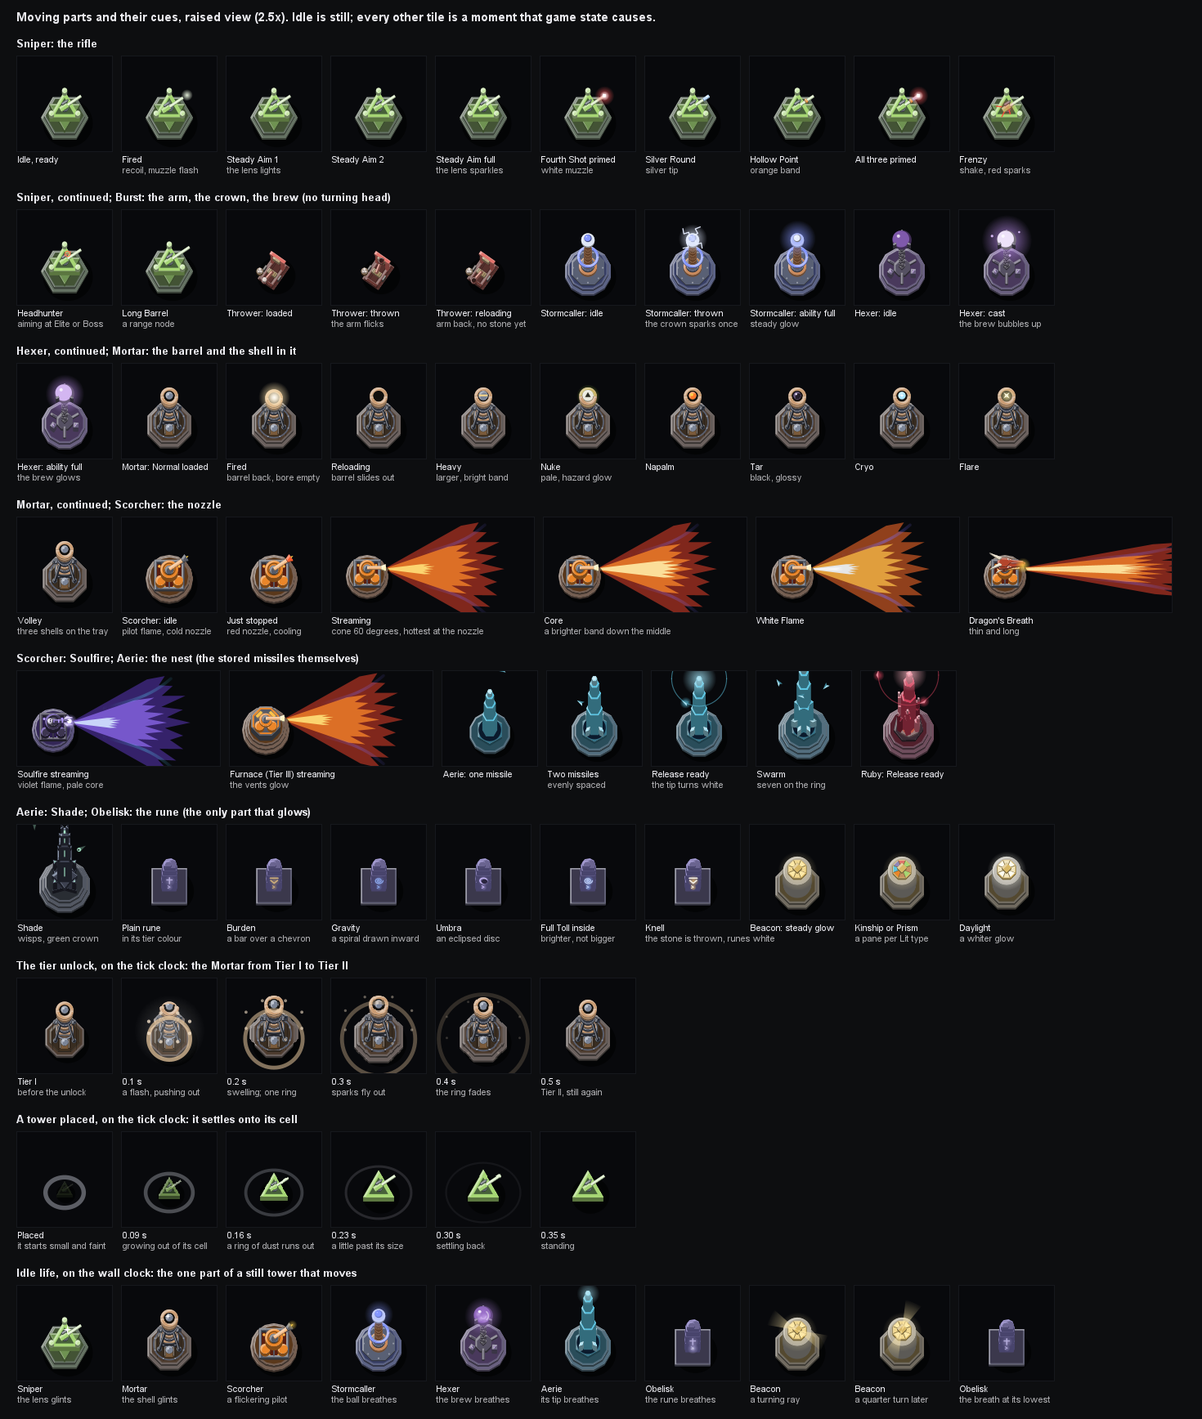
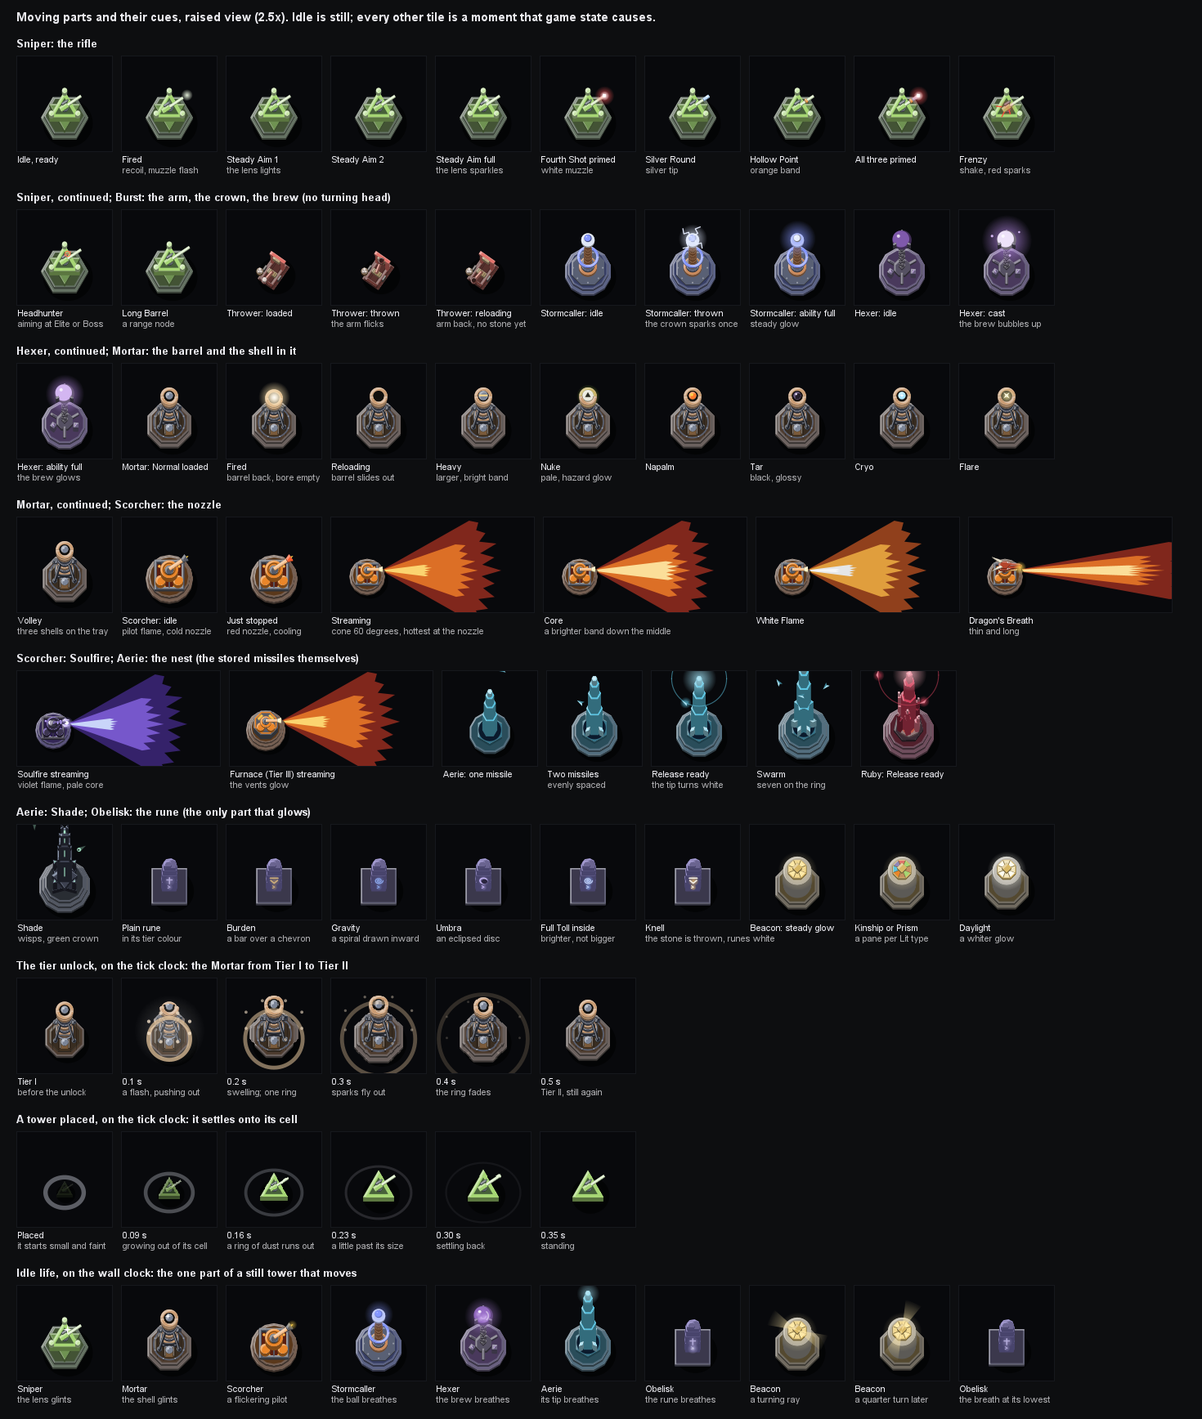
Burn each enemy once in a flame that covers its range
An enemy two cones hold is one silhouette: its hottest cone sets its heat, and
each further cone adds a little, so crossfire warms a rim without reaching the
white and ice-blue only upgrades reach. The rim is one flat line round the body,
wider-ramped and thicker the hotter it burns, over a flat silhouette. The licks
lose their outlines and the cone its side sheen, which overshot the fire. A
cone's solid fire now covers its whole range, its tips licking past it.

A silhouette paints in about 60% of its former time.

diff --git a/src/main/java/td/ui/FlameArt.java b/src/main/java/td/ui/FlameArt.java
@@ -13,11 +13,11 @@ import java.awt.geom.Path2D;
 
 /**
  * The Scorchers' flame. Every stream of the frame is painted in one pass, layer by layer, so where two cones cross their
- * fire merges into one flame instead of stacking its alpha twice. Over the fire, each enemy caught in a cone shows as a
- * body standing in the jet: heat pooling on its front, a dimmer wake behind it, its dark silhouette lit white-hot where
- * the jet strikes and dull red round its flanks, tongues of flame licking round both sides with a blue-violet plasma
- * edge, and embers shed off it. How hot it all looks follows the fuel: a hotter stream and a hotter enemy burn yellower,
- * then white, then blue-white. Nothing is stored between frames.
+ * fire merges into one flame instead of stacking its alpha twice. A cone's solid fire covers its whole reach and its
+ * tips lick past it. Over the fire, each enemy caught in a cone shows as a body standing in the jet: heat pooling on its
+ * front, a dimmer wake behind it, its dark silhouette ringed by a rim of its heat, tongues of flame licking round both
+ * sides and embers shed off it. How hot it all looks follows the fuel: a hotter stream and a hotter enemy burn yellower,
+ * then white, then ice-blue, and a hotter rim is thicker. Nothing is stored between frames.
  */
 final class FlameArt {
 
@@ -25,6 +25,8 @@ final class FlameArt {
     static final double FULL_FUEL = 120;
     /** Heat added inside the Core, on top of the fuel the Core already adds. */
     static final double CORE_HEAT = 0.25;
+    /** Heat each cone past the hottest adds to an enemy caught in several. */
+    static final double CROSSFIRE_HEAT = 0.1;
 
     /** The three layers' alpha; the outer and middle merge across cones, the core stays each stream's. */
     private static final float OUTER_ALPHA = 0.55f;
@@ -35,7 +37,7 @@ final class FlameArt {
     private static final int CORE_TIPS = 5;
     private static final int WHITE_TIPS = 3;
     private static final int TONGUE_SEEDS = 7;
-    /** A silhouette: how dark it lies over the fire, and its rim's width in cells. */
+    /** A silhouette: how dark it lies over the fire, and its coolest rim's width in cells. */
     private static final Color SILHOUETTE = new Color(0x1a0c06);
     private static final float SILHOUETTE_ALPHA = 0.68f;
     private static final double RIM_CELLS = 0.030;
@@ -46,13 +48,8 @@ final class FlameArt {
     private static final double WAKE_LENGTH = 3.0;
     private static final float WAKE_ALPHA = 0.42f;
     private static final int LICK_POINTS = 14;
-    private static final int PLASMA_POINTS = 12;
-    private static final Color PLASMA = new Color(0x7a6cff);
-    private static final Color PLASMA_SOUL = new Color(0x58d8ff);
     private static final Color FLAME = new Color(0xff8a2a);
     private static final Color FLAME_SOUL = new Color(0xb49cff);
-    private static final Color RIM_COOL = new Color(0xc0301a);
-    private static final Color RIM_DULL = new Color(0xd04020);
 
     private FlameArt() {
     }
@@ -86,10 +83,15 @@ final class FlameArt {
                 : ramp(heat, new Color(0xffe27a), new Color(0xfff2b8), new Color(0xfffaf0), new Color(0xe6f0ff));
     }
 
-    /** The rim on a silhouette's hot edge: yellow, white-hot, then blue-white. */
+    /** How far {@code heat} is toward the hottest a rim gets: a full stream in the Core. */
+    private static double rimShare(double heat) {
+        return Math.clamp(heat / (1 + CORE_HEAT), 0, 1);
+    }
+
+    /** The rim round a silhouette: orange-red, yellow, white-hot, then ice-blue. */
     private static Color rim(double heat, boolean soul) {
-        return soul ? ramp(heat, new Color(0xe0d0ff), Color.WHITE)
-                : ramp(heat / 1.25, new Color(0xffd84a), new Color(0xfff0a0), Color.WHITE, new Color(0xd8e8ff));
+        return soul ? ramp(rimShare(heat), new Color(0xa47cff), new Color(0xe0d0ff), Color.WHITE, new Color(0xa8f0ff))
+                : ramp(rimShare(heat), new Color(0xe04a20), new Color(0xffd040), Color.WHITE, new Color(0x9cd0ff));
     }
 
     /** Every stream and every enemy caught in one. */
@@ -121,7 +123,6 @@ final class FlameArt {
             g2.fill(middle);
         }
         for (FlameDraw.Stream s : flame.streams()) {
-            plasma(g2, s, scale);
             boolean core = s.coreHalfWidthRadians() > 0;
             double coreHalf = core ? s.coreHalfWidthRadians() : s.halfWidthRadians() * 0.26;
             double coreHeat = s.heat() + (core ? CORE_HEAT : 0);
@@ -144,7 +145,7 @@ final class FlameArt {
         return t.createTransformedShape(tongue);
     }
 
-    /** A flame along +x, its edge through tips and notches across its width, a little shorter toward its sides. */
+    /** A flame along +x: its notches lie at {@code reach} across its width, its tips past it, shorter toward its sides. */
     private static Shape tongue(double reach, double half, int tips, int seed) {
         Path2D.Double path = new Path2D.Double();
         double root = reach * 0.01;
@@ -153,49 +154,21 @@ final class FlameArt {
         int points = tips * 2;
         for (int i = 0; i <= points; i++) {
             double angle = -half + 2 * half * i / points;
-            double edge = 1 - 0.10 * Math.abs(angle / half);
             double roll = TowerLifeArt.hash(seed, i);
-            double share = i % 2 == 0 ? 0.78 + 0.10 * roll : 0.96 + 0.08 * roll;
-            double r = reach * edge * share;
+            double over = (0.15 + 0.10 * roll) * (1 - 0.5 * Math.abs(angle / half));
+            double share = i % 2 == 0 ? 1.0 + 0.04 * roll : 1.0 + over;
+            double r = reach * share;
             path.lineTo(Math.cos(angle) * r, Math.sin(angle) * r);
         }
         path.closePath();
         return path;
     }
 
-    /** A thin blue-violet sheen curving along each side of the cone from a third of its reach, gone at the tips. */
-    private static void plasma(Graphics2D g2, FlameDraw.Stream s, double scale) {
-        AffineTransform save = g2.getTransform();
-        g2.translate(s.x(), s.y());
-        g2.rotate(s.headingRadians());
-        Color tint = s.soulfire() ? PLASMA_SOUL : PLASMA;
-        g2.setStroke(new BasicStroke((float) (scale * 0.05), BasicStroke.CAP_ROUND, BasicStroke.JOIN_ROUND));
-        g2.setPaint(new GradientPaint(s.reach() * 0.3f, 0f, TowerLifeArt.faded(tint, 0), s.reach() * 0.62f, 0f,
-                TowerLifeArt.faded(tint, 0.30 + 0.15 * s.heat()), true));
-        for (int side = -1; side <= 1; side += 2) {
-            Path2D.Double sheen = new Path2D.Double();
-            double inner = s.halfWidthRadians() * 0.80;
-            for (int i = 0; i <= PLASMA_POINTS; i++) {
-                double u = 0.3 + 0.62 * i / PLASMA_POINTS;
-                double a = side * inner * (1 - 0.15 * Math.sin(Math.PI * (u - 0.3) / 0.62));
-                double r = s.reach() * u;
-                if (i == 0) {
-                    sheen.moveTo(Math.cos(a) * r, Math.sin(a) * r);
-                } else {
-                    sheen.lineTo(Math.cos(a) * r, Math.sin(a) * r);
-                }
-            }
-            g2.draw(sheen);
-        }
-        g2.setTransform(save);
-    }
-
-
     /**
      * An enemy in the fire. The jet piles up against its front: a hot glow pools on the side facing the nozzle. Its
-     * body blocks the fire: a dimmer wake trails behind it downstream. Its dark silhouette is lit along the facing edge,
-     * white-hot where the jet strikes square and cooling to a dull red round its flanks. Tongues of flame split on its
-     * front and lick round both sides, a faint plasma along their outer edge; a few embers shed off its flanks.
+     * body blocks the fire: a dimmer wake trails behind it downstream. Its dark silhouette is ringed by a rim as hot,
+     * and as thick, as the fire in it. Tongues of flame split on its front and lick round both sides; a few embers shed
+     * off its flanks.
      */
     private static void silhouette(Graphics2D g2, FlameDraw.Caught c, double scale, double seconds) {
         double x = c.x();
@@ -209,7 +182,6 @@ final class FlameArt {
         int seed = (int) Math.round(c.x() * 7 + c.y() * 13);
         Color hot = rim(c.heat(), c.soulfire());
         Color flame = c.soulfire() ? FLAME_SOUL : FLAME;
-        Color plasma = c.soulfire() ? PLASMA_SOUL : PLASMA;
         double across = toNozzle + Math.PI / 2;
         double wakeX = x + Math.cos(down) * size * WAKE_LENGTH;
         double wakeY = y + Math.sin(down) * size * WAKE_LENGTH;
@@ -226,7 +198,6 @@ final class FlameArt {
         double frontY = y + Math.sin(toNozzle) * size * 0.9;
         TowerLifeArt.glow(g2, frontX, frontY, size * 1.25, hot, 0.55);
         TowerLifeArt.glow(g2, frontX, frontY, size * 0.6, mix(hot, Color.WHITE, 0.4), 0.55);
-        g2.setStroke(new BasicStroke((float) (scale * 0.008)));
         for (int side = -1; side <= 1; side += 2) {
             for (int k = 0; k < TONGUES; k++) {
                 Shape t = lick(x, y, toNozzle, size, side, k, seconds, seed, 1.0);
@@ -234,25 +205,13 @@ final class FlameArt {
                         TowerLifeArt.faded(mix(flame, hot, 0.65), 0.95), (float) (x + Math.cos(down) * size * 3),
                         (float) (y + Math.sin(down) * size * 3), TowerLifeArt.faded(mix(flame, hot, 0.3), 0)));
                 g2.fill(t);
-                g2.setPaint(new GradientPaint((float) frontX, (float) frontY, TowerLifeArt.faded(plasma, 0.45),
-                        (float) (x + Math.cos(down) * size * 2.5), (float) (y + Math.sin(down) * size * 2.5),
-                        TowerLifeArt.faded(plasma, 0)));
-                g2.draw(t);
             }
         }
-        double backX = x + Math.cos(down) * size;
-        double backY = y + Math.sin(down) * size;
-        g2.setPaint(new GradientPaint((float) frontX, (float) frontY,
-                TowerLifeArt.faded(mix(SILHOUETTE, hot, 0.35), 0.62), (float) x, (float) y,
-                TowerLifeArt.faded(SILHOUETTE, SILHOUETTE_ALPHA)));
+        g2.setColor(TowerLifeArt.faded(SILHOUETTE, SILHOUETTE_ALPHA));
         g2.fill(outline);
-        g2.setStroke(new BasicStroke((float) (RIM_CELLS * scale * 2.4), BasicStroke.CAP_ROUND, BasicStroke.JOIN_ROUND));
-        g2.setPaint(new GradientPaint((float) frontX, (float) frontY, TowerLifeArt.faded(hot, 0.45), (float) backX,
-                (float) backY, TowerLifeArt.faded(RIM_COOL, 0)));
-        g2.draw(outline);
-        g2.setStroke(new BasicStroke((float) (RIM_CELLS * scale * 0.9), BasicStroke.CAP_ROUND, BasicStroke.JOIN_ROUND));
-        g2.setPaint(new GradientPaint((float) frontX, (float) frontY, TowerLifeArt.faded(mix(hot, Color.WHITE, 0.5), 1.0),
-                (float) x, (float) y, TowerLifeArt.faded(RIM_DULL, 0.15)));
+        float rimWidth = (float) (RIM_CELLS * scale * (1 + rimShare(c.heat())));
+        g2.setStroke(new BasicStroke(rimWidth, BasicStroke.CAP_ROUND, BasicStroke.JOIN_ROUND));
+        g2.setColor(TowerLifeArt.faded(hot, 0.85));
         g2.draw(outline);
         for (int side = -1; side <= 1; side += 2) {
             Shape t = lick(x, y, toNozzle, size, side, 0, seconds, seed, 0.45);

diff --git a/src/main/java/td/ui/TowerEffectFrameBuilder.java b/src/main/java/td/ui/TowerEffectFrameBuilder.java
@@ -55,7 +55,9 @@ import td.wave.Vec2;
 
 import java.awt.geom.Point2D;
 import java.util.ArrayList;
+import java.util.LinkedHashMap;
 import java.util.List;
+import java.util.Map;
 import java.util.Optional;
 import java.util.OptionalInt;
 
@@ -149,7 +151,7 @@ public final class TowerEffectFrameBuilder implements TowerVisitor<Void> {
     private final List<TowerEffectDraw> draws = new ArrayList<>();
     private final List<ZoneDraw> wards = new ArrayList<>();
     private final List<FlameDraw.Stream> streams = new ArrayList<>();
-    private final List<FlameDraw.Caught> caught = new ArrayList<>();
+    private final Map<EnemyMob, Burning> burning = new LinkedHashMap<>();
     private final int scale;
     private final int gameTime;
     private final double interpolationAlpha;
@@ -180,7 +182,9 @@ public final class TowerEffectFrameBuilder implements TowerVisitor<Void> {
             this.draws.add(new WardOutlineDraw(ZoneOutlineTracer.trace(this.wards), this.scale));
         }
         if (!this.streams.isEmpty()) {
-            this.draws.add(new FlameDraw(this.streams, this.caught, this.scale, this.tickSeconds()));
+            List<FlameDraw.Caught> caught = this.burning.entrySet().stream()
+                    .map(entry -> this.caught(entry.getKey(), entry.getValue())).toList();
+            this.draws.add(new FlameDraw(this.streams, caught, this.scale, this.tickSeconds()));
         }
         return this.draws;
     }
@@ -677,16 +681,45 @@ public final class TowerEffectFrameBuilder implements TowerVisitor<Void> {
                 (float) tower.halfWidthRadians(), heatOf(tower.fuelPerSecond()), look.coreHalfWidth(), look.soulfire(),
                 flicker));
         for (CinderTower.Caught fed : tower.caught()) {
-            float heat = heatOf(fed.fuelPerSecond()) + (fed.inCore() ? (float) FlameArt.CORE_HEAT : 0f);
-            this.caught.add(fed.enemy().accept(mob -> new FlameDraw.Caught(EnemyFrameBuilder.lookFor(mob.archetype()),
-                    this.lerp(mob.getPrevX(), mob.getX()), this.lerp(mob.getPrevY(), mob.getY()), mob.getBodyScale(),
-                    (float) mob.getFacingRadians(), heat, muzzle.x, muzzle.y, look.soulfire())));
+            this.burning.merge(fed.enemy(), new Burning(new Cone(fed.fuelPerSecond(), muzzle, look.soulfire()),
+                    fed.inCore(), 1), Burning::with);
         }
         for (CinderTower.Flash flash : tower.flashes()) {
             this.draws.add(flashover(look.soulfire(), (float) flash.fromX(), (float) flash.fromY(), (float) flash.toX(),
                     (float) flash.toY(), flicker));
         }
         return null;
+    }
+
+    /** {@code enemy} standing in the flame, as hot as {@code fire} burns it, lit from its hottest cone's nozzle. */
+    private FlameDraw.Caught caught(EnemyMob enemy, Burning fire) {
+        Cone hottest = fire.hottest();
+        return enemy.accept(mob -> new FlameDraw.Caught(EnemyFrameBuilder.lookFor(mob.archetype()),
+                this.lerp(mob.getPrevX(), mob.getX()), this.lerp(mob.getPrevY(), mob.getY()), mob.getBodyScale(),
+                (float) mob.getFacingRadians(), fire.heat(), hottest.nozzle().x, hottest.nozzle().y,
+                hottest.soulfire()));
+    }
+
+    /** One cone's fuel into an enemy, a second, and the nozzle and fire it came from. */
+    private record Cone(float fuelPerSecond, Point2D.Float nozzle, boolean soulfire) {
+    }
+
+    /**
+     * Every cone that fed one enemy this tick: the hottest, whether any held it in its Core, and how many. The hottest
+     * sets the heat, so crossfire warms a rim without stealing the white and ice-blue that only upgrades reach.
+     */
+    private record Burning(Cone hottest, boolean inCore, int cones) {
+
+        Burning with(Burning other) {
+            Cone hotter = other.hottest().fuelPerSecond() > this.hottest().fuelPerSecond() ? other.hottest()
+                    : this.hottest();
+            return new Burning(hotter, this.inCore() || other.inCore(), this.cones() + other.cones());
+        }
+
+        float heat() {
+            return heatOf(this.hottest().fuelPerSecond()) + (float) (FlameArt.CROSSFIRE_HEAT * (this.cones() - 1))
+                    + (this.inCore() ? (float) FlameArt.CORE_HEAT : 0f);
+        }
     }
 
     /** The steam its nozzle lets off as its reload starts. */

diff --git a/src/test/java/td/ui/TowerEffectFrameBuilderTest.java b/src/test/java/td/ui/TowerEffectFrameBuilderTest.java
@@ -671,19 +671,24 @@ class TowerEffectFrameBuilderTest {
     }
 
     @Test
-    void crossingStreamsAreOneFlameOverEveryEnemyTheyFeed() {
+    void crossingStreamsAreOneFlameBurningEachEnemyOnceAShadeHotterThanItsHottestCone() {
         GameWorld context = WorldFixtures.newWorldOnBoard(BoardFixtures.SCALE, 20, 20);
-        CinderTower west = scorcherWith(context);
-        CinderTower north = new CinderTower(context, 4, 2);
-        context.towers().add(north);
-        EnemyMob enemy = walkerBefore(context, west, BoardFixtures.SCALE);
+        CinderTower near = scorcherWith(context);
+        CinderTower behind = new CinderTower(context, 2, 3);
+        context.towers().add(behind);
+        EnemyMob enemy = walkerBefore(context, near, BoardFixtures.SCALE);
 
         FlameDraw flame = flameOf(context, enemy);
 
+        assertThat(near.caught()).extracting(CinderTower.Caught::enemy).containsExactly(enemy);
+        assertThat(behind.caught()).extracting(CinderTower.Caught::enemy).containsExactly(enemy);
+        float hottest = Math.max(near.caught().getFirst().fuelPerSecond(), behind.caught().getFirst().fuelPerSecond());
         assertThat(flame.streams()).hasSize(2);
-        assertThat(flame.caught()).isNotEmpty().allSatisfy(caught -> {
+        assertThat(flame.caught()).singleElement().satisfies(caught -> {
             assertThat(caught.x()).isEqualTo((float) enemy.getX());
             assertThat(caught.bodyScale()).isEqualTo(enemy.getBodyScale());
+            assertThat(caught.heat()).isCloseTo(
+                    TowerEffectFrameBuilder.heatOf(hottest) + (float) FlameArt.CROSSFIRE_HEAT, within(1e-5f));
         });
     }
 

diff --git a/.claude/skills/run-jtd/TowerArtSheets3.java b/.claude/skills/run-jtd/TowerArtSheets3.java
@@ -60,11 +60,11 @@ final class TowerArtSheets3 {
         return TowerArt.State.idle();
     }
 
-    /** A Scorcher with its stream, the nozzle at the tile's left so the cone has room. */
+    /** A Scorcher with its stream, the nozzle at the tile's left and drawn small, so the flame's tips past its range fit. */
     static Art streaming(String id, int tier, TowerArt.State s, double range, double half, String look) {
         return g -> {
             g.translate(-1.0, 0.2);
-            g.scale(0.9, 0.9);
+            g.scale(0.75, 0.75);
             TowerArt.Build b = TowerArt.build(id, tier, s.aim(0).cue("stream"));
             AffineTransform save = g.getTransform();
             double len = (s.has("dragon") ? 0.28 : 0.25) + 0.07;

diff --git a/docs/features/FEATURE-tower-visual-polish.md b/docs/features/FEATURE-tower-visual-polish.md
@@ -185,24 +185,28 @@ at Tier III a low iron rail on posts runs round the back half only.
 
 Every stream of the frame is painted in one pass, so two cones that cross merge into one flame instead of stacking
 their alpha: the outer and middle layers of every stream are joined into one shape each and filled once; each
-stream's core stays its own. Flashovers stay the game's small tongues.
+stream's core stays its own. Flashovers stay the game's small tongues. A cone's solid fire covers its whole range
+and its ragged tips lick past it, shorter toward its sides, so no enemy it burns stands outside the drawn flame.
 
 - **An enemy in the jet** looks as a body standing in a jet of flame does, instead of being hidden:
   - its own outline as a semi-transparent dark silhouette over the fire;
   - heat pooling against its front, a soft hot glow on the side facing the nozzle;
   - a dimmer wake trailing downstream behind it, where its body blocks the fire (`WAKE_*`);
-  - the hot rim: its outline lit white-hot where the jet strikes square, cooling to a dull red round its flanks and
-    fading out at its back, and the silhouette itself warmed on its front;
+  - the hot rim: one flat line round its whole outline in the colour of its heat, thicker the hotter it burns, over
+    a flat dark silhouette;
   - tongues of flame (`TONGUES` a side) that split on its front, hug its flanks and stream away downstream, tapering
-    to a point and wavering; brighter than the fire behind them, as a flame front is, a faint blue-violet plasma along
-    their outer edge, and a narrower white-hot tongue inside the first;
+    to a point and wavering; brighter than the fire behind them, as a flame front is, and a narrower white-hot tongue
+    inside the first;
   - a few embers shed off its flanks downstream (`EMBER*`).
-- **Plasma:** a blue-violet sheen also curves along each side of every cone.
+- **One body per enemy:** an enemy two cones hold is drawn once. Its hottest cone sets its heat, colour and lit
+  side, each further cone adds a little heat (`CROSSFIRE_HEAT`), and the Core's bonus counts if any cone holds it in
+  its Core; so crossfire warms a rim without reaching the colours only upgrades reach.
 - **Heat:** how hot it looks follows the fuel (`PolishFlame.heatOf`): 0 is the bare flame's fuel a second
   (`FLAME_POINTS`), 1 the fuel with every damage node (Hot Flame, White Flame, Hot Flame II). Each layer ramps from
   red-orange to yellow, then white, then blue-white at the core. A stream's heat is its own fuel a second; an enemy's
   rim takes the fuel that enemy is fed, so the Core (plus `CORE_HEAT`), Thermal Shock and Meltdown each make its rim
-  hotter. Soulfire keeps its violet ramps.
+  hotter. The rim runs orange-red, yellow, white, then ice-blue, which only a full stream in the Core reaches; a
+  Soulfire rim runs violet, lilac, white, then pale cyan. Soulfire keeps its violet ramps.
 - Stylised as the board: filled shapes, strokes and gradients, no blur filter. Close-up in `flame.gif`'s bottom
   row.
 
@@ -388,7 +392,7 @@ not in the repository.
   the Obelisk's standing stones became rough stones; every Aerie look keeps a Release-ready cue; the Aerie's shards
   and the Stormcaller's insulators grew with their towers; the birds' rings breathe; the Mortar got a wooden rack
   and a glint once loaded; the Burst's onager got winches, braces, a basket and a heap of stones; the flame got a
-  white-hot inner core from half heat and a plasma sheen along every cone; a loaded Fourth Shot glows larger on the
+  white-hot inner core from half heat; a loaded Fourth Shot glows larger on the
   rifle; the Silver Round leaves glitter.
 
 ## Open questions

diff --git a/docs/features/FEATURE-next-gen-cinder-tower.md b/docs/features/FEATURE-next-gen-cinder-tower.md
@@ -144,9 +144,9 @@ Drawn in the art pass (2026-11-13), in the raised view with a footprint that gro
 
 - **Soulfire** is the body look `SOULFIRE`, chosen by the body-look visitor from the tower's `streamLook()`.
 - **The flame** is one `FlameDraw` of every stream of the frame from its posed muzzle, painted in one pass so cones
-  that cross merge, each enemy in a cone a silhouette standing in it (`FlameArt`); a Flashover's small tongue is a
-  `StreamDraw` from `flashover`. Steam leaves the nozzle as a stream ends (`SteamDraw`). Dragon's Breath's own flame
-  shape is not drawn yet (`TODO.md`).
+  that cross merge, each enemy it burns one silhouette standing in it however many cones hold it (`FlameArt`); a
+  Flashover's small tongue is a `StreamDraw` from `flashover`. Steam leaves the nozzle as a stream ends (`SteamDraw`).
+  Dragon's Breath's own flame shape is not drawn yet (`TODO.md`).
 
 | Tier | Foundation |
 |---|---|
